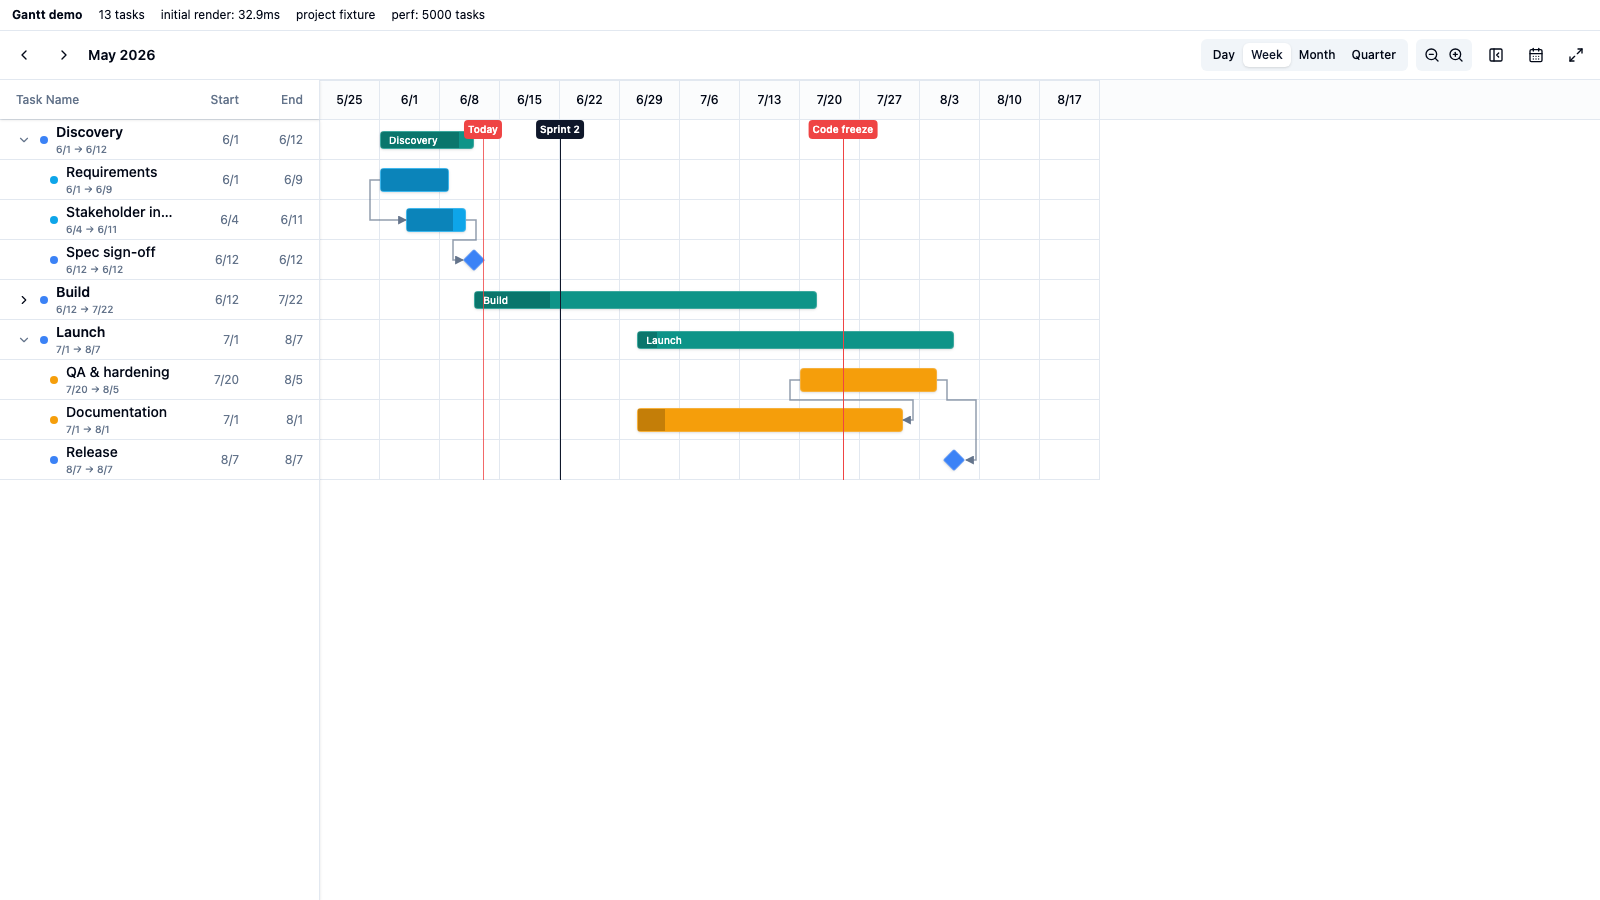
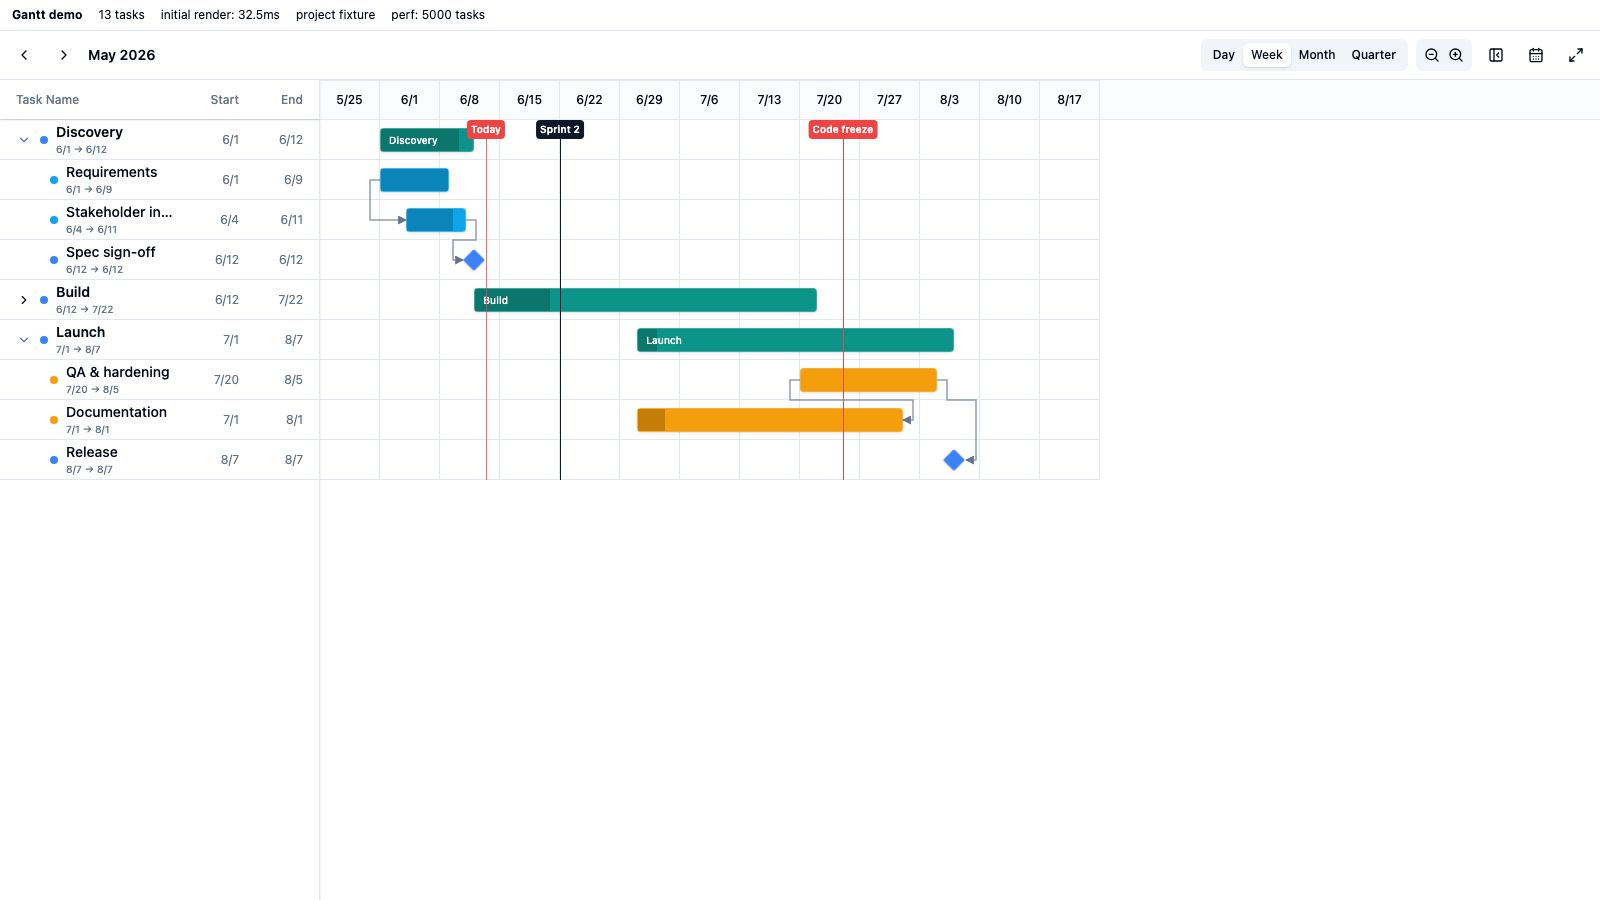
style(gantt): summary bars now share the exact task-bar height

Changed region(s): [[0.2812, 0.3111, 0.5938, 0.4044], [0.25, 0.1244, 0.3125, 0.1867]]

diff --git a/packages/plugin-gantt/src/GanttView.tsx b/packages/plugin-gantt/src/GanttView.tsx
@@ -1021,10 +1021,10 @@ export function GanttView({
   // The diamond is a square rotated 45° around its center at the task date;
   // its horizontal tips sit half a diagonal out from that center.
   const milestoneHalfTip = (milestoneSize * Math.SQRT2) / 2;
-  // Summary bars are slightly slimmer than task bars but share their vertical
-  // center, so link anchors are uniform across row kinds.
-  const summaryBarHeight = Math.max(barHeight - 6, 10);
-  const summaryBarTop = Math.round((rowHeight - summaryBarHeight) / 2);
+  // Summary bars share the task bars' exact geometry, so link anchors are
+  // uniform across row kinds.
+  const summaryBarHeight = barHeight;
+  const summaryBarTop = barTop;
 
   // Orthogonal elbow path from the predecessor anchor to the dependent
   // anchor. Anchors per link type: fs = source end → target start,
